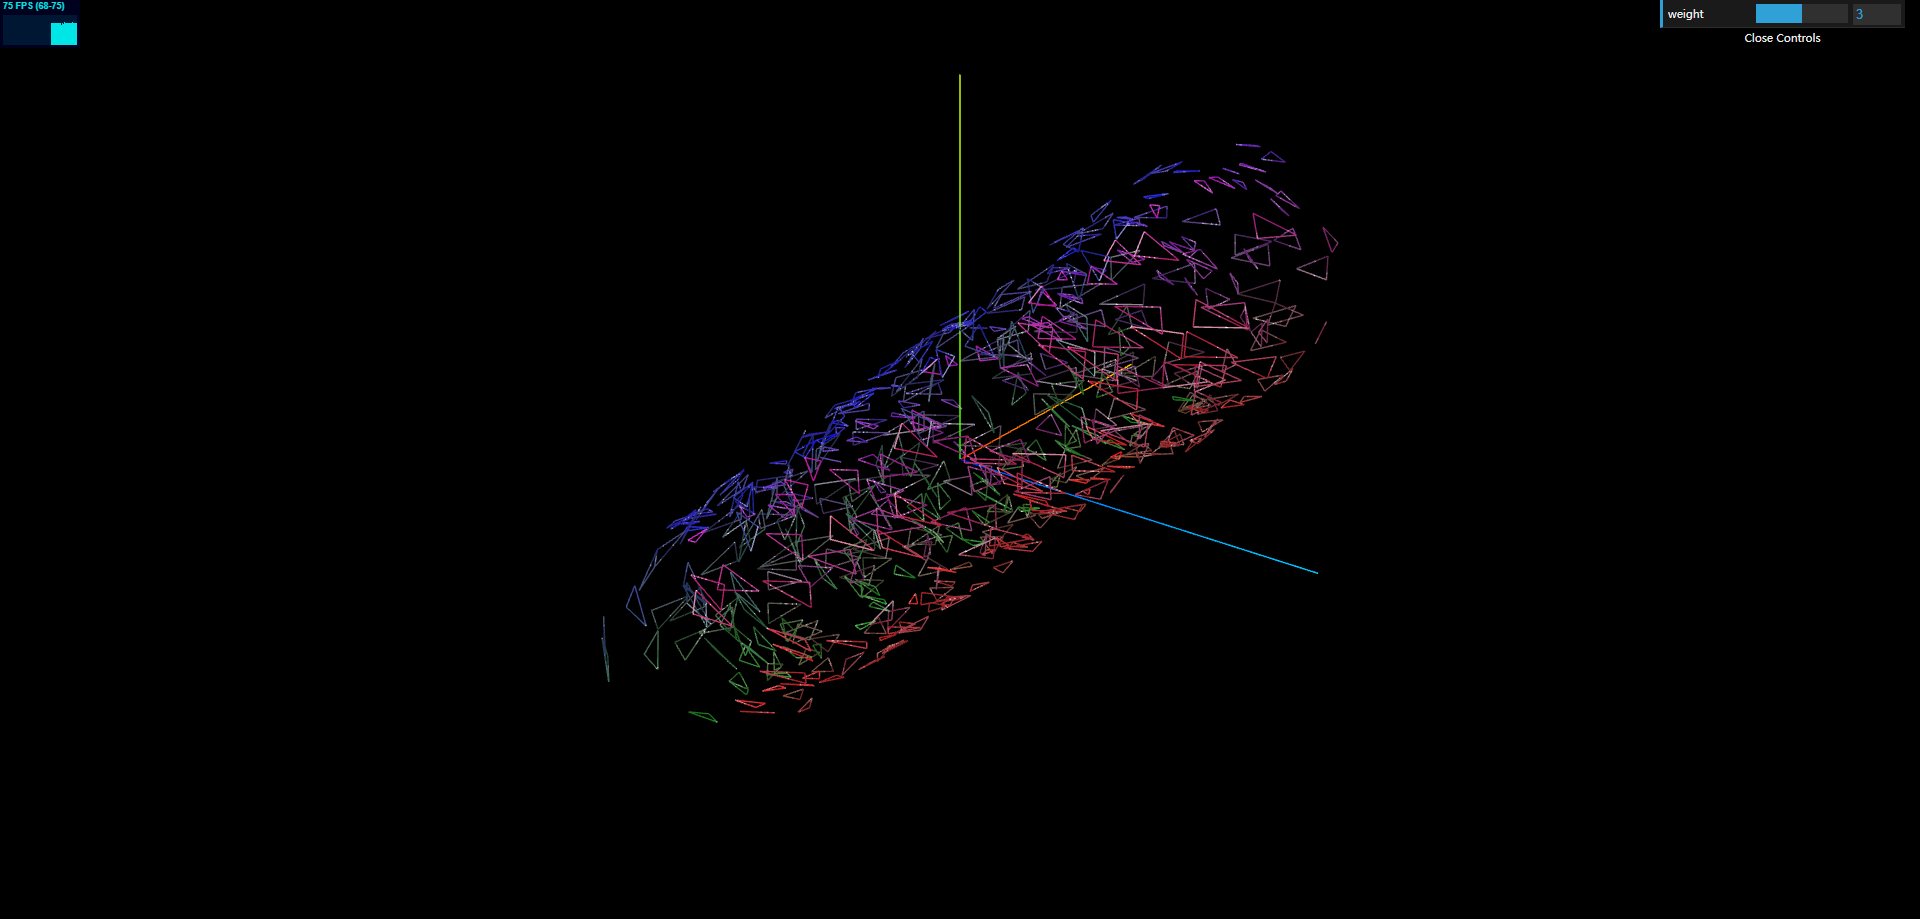
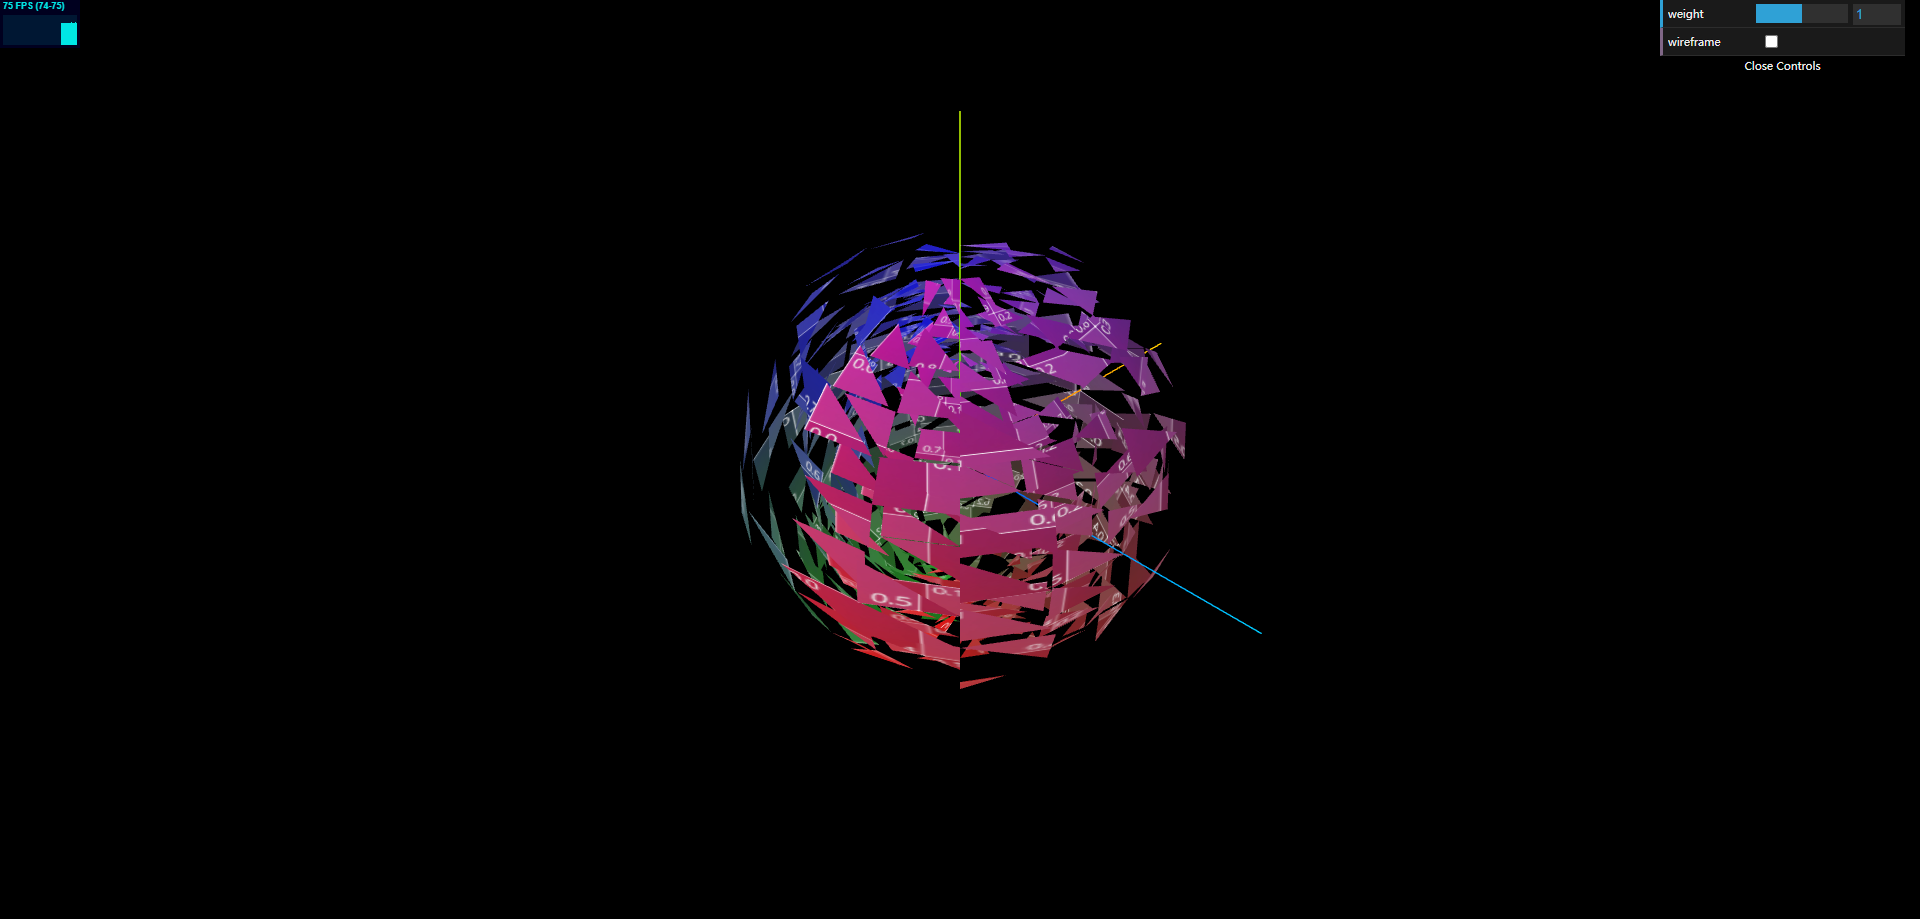
chore: update screenshots

Changed region(s): [[0.3125, 0.1828, 0.6875, 0.7922], [0.8438, 0.0305, 1.0, 0.0914]]

diff --git a/src/demos/shader@triangles_offset.html b/src/demos/shader@triangles_offset.html
@@ -68,12 +68,12 @@
 
     // gui
     const params = {
-      weight: 3,
+      weight: 1,
       wireframe: false,
     };
 
     const gui = new dat.GUI();
-    gui.add(params, 'weight', 0, 6, 0.1).onChange(() => {
+    gui.add(params, 'weight', 0, 2, 0.1).onChange(() => {
       if (mesh) {
         mesh.material.uniforms.uWeight.value = params.weight;
       }
@@ -162,7 +162,7 @@
         document.getElementById("vertexShader").textContent,
       fragmentShader: document.getElementById("fragmentShader").textContent,
       uniforms: {
-        uWeight: { value: 3 },
+        uWeight: { value: 1 },
         uTexture: { value: texture },
       },
       wireframe: false,
